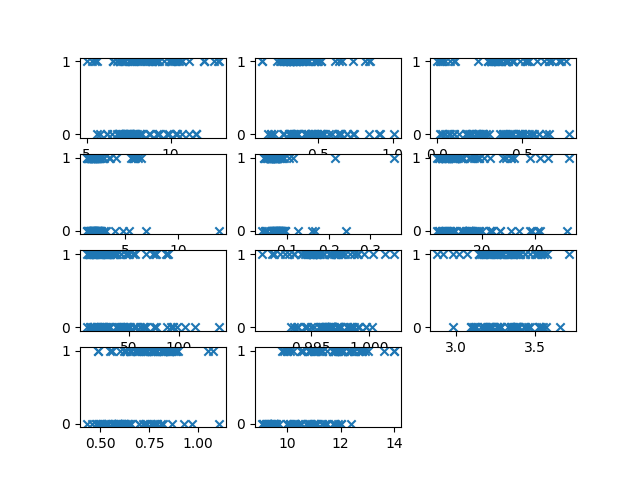
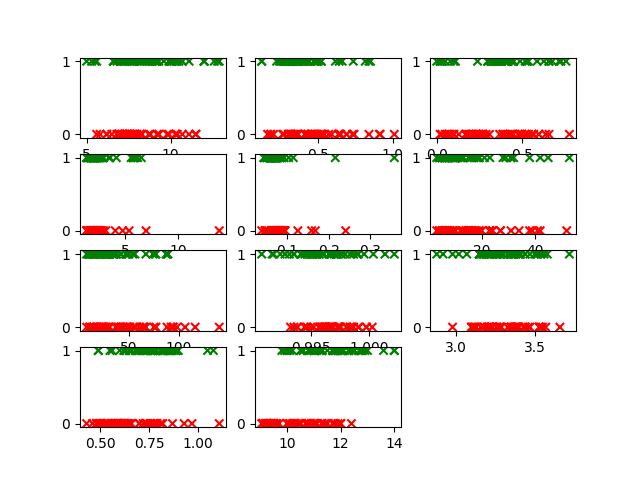
01FEB.01

diff --git a/LRF.py b/LRF.py
@@ -62,7 +62,7 @@ def uc_logistic_regression(data,result,uncertain):
         
     return models
 
-def ROC(model = None, predictions = None, data = None, results = None, uq = False):
+def ROC(model = None, predictions = None, data = None, results = None, uq = False, drop = True):
     
     s = []
     fpr = []
@@ -77,36 +77,73 @@ def ROC(model = None, predictions = None, data = None, results = None, uq = Fals
         d = 0
 
         for prob, result in zip(predictions,results):
-            if uq:
+            if uq and not drop:
                 if (prob[0] >= p) and (prob[1] >= p):
                     x = 1
                 elif (prob[0] < p) and (prob[1] < p):
                     x = 0
                 else:
-                    continue                      
-            else:
-                x = prob >= p
-                
-            if x:
-                if result:
-                    # true positive
-                    a += 1
-                else:
-                    # false positive
-                    b+= 1
-            else: 
-                if result:
-                    # false negative
-                    c += 1
-                else:
-                    # true negative
-                    d += 1
+                    x = 0.5
                     
-        try:
-            s.append(a/(a+c))
-            fpr.append(b/(b+d))
-        except: 
-            pass
+                if x == 0.5:
+                    if result:
+                        a += pba.I(0,1)
+                        b += pba.I(0,1)
+                    else:
+                        c += pba.I(0,1)
+                        d += pba.I(0,1)
+                elif x:
+                    if result:
+                        # true positive
+                        a += 1
+                    else:
+                        # false positive
+                        b+= 1
+                else: 
+                    if result:
+                        # false negative
+                        c += 1
+                    else:
+                        # true negative
+                        d += 1
+                
+                        
+            else:
+                if uq and drop:
+                    if (prob[0] >= p) and (prob[1] >= p):
+                        x = 1
+                    elif (prob[0] < p) and (prob[1] < p):
+                        x = 0
+                    else:
+                        continue                 
+                else:
+                    x = prob >= p
+                    
+                if x:
+                    if result:
+                        # true positive
+                        a += 1
+                    else:
+                        # false positive
+                        b+= 1
+                else: 
+                    if result:
+                        # false negative
+                        c += 1
+                    else:
+                        # true negative
+                        d += 1
+                    
+        if a == 0:
+            s.append(0)
+        else:
+            s.append(1/(1+(c/a)))
+        
+        if b == 0:
+            fpr.append(0)
+        else:
+            fpr.append(1/(1+(d/b)))
+        
     return s, fpr
    
 def UQ_ROC(models, data, results):
@@ -114,21 +151,21 @@ def UQ_ROC(models, data, results):
     s = []
     fpr = []
     
-    predictions_lb = []
-    predictions_ub = []
+    predictions = []
     
     for d in tqdm(data.index):
         l = [m.predict_proba(data.loc[d].to_numpy().reshape(1, -1))[:,1] for k,m in models.items()]
-        predictions_lb += [min(l)]
-        predictions_ub += [max(l)]
+        predictions.append((min(l),max(l)))
     
         
-    s_lb,fpr_lb = ROC(predictions = predictions_lb, data = data, results = results)
-    s_ub,fpr_ub = ROC(predictions = predictions_ub, data = data, results = results)
-    s_t,fpr_t = ROC(predictions = [(l,h) for l,h in zip(predictions_lb,predictions_ub)], data = data, results = results, uq = True)
-          
+    s_i,fpr_i = ROC(predictions = predictions, data = data, results = results, uq = True, drop = False)
+    s_t,fpr_t = ROC(predictions = predictions, data = data, results = results, uq = True, drop = True)
+    
+    s_i = [pba.I(i) for i in s_i]
+    fpr_i = [pba.I(i) for i in fpr_i]
+    
 
-    return s_lb, fpr_lb, s_ub, fpr_ub, s_t, fpr_t
+    return s_i, fpr_i, s_t, fpr_t
 
 
 def split_data(features, results, test_frac = 0.5, uq_frac = 0.05, seed=random.random()):

diff --git a/redwine.py b/redwine.py
@@ -88,41 +88,56 @@ with open('redwine-cm.out','w') as f:
 
 
 ## ROC CURVE
-# s,fpr = ROC(model = base, data = test_data, results = test_results)
-# s_lb, fpr_lb, s_ub, fpr_ub, s_t, fpr_t = UQ_ROC(models = uq_models, data = test_data, results = test_results)
 
-# plt.plot([0,1],[0,1],'k:',label = '$s = 1-t$')
-# plt.xlabel('$1-t$')
-# plt.ylabel('$s$')
-# plt.plot(fpr,s,'k', label = 'Dropped missing values')
-# plt.savefig('figs/redwine_ROC.png')
-# plt.savefig('../paper/figs/redwine_ROC.png')
+### ROC CURVE
+s,fpr = ROC(model = base, data = test_data, results = test_results)
+s_i, fpr_i, s_t, fpr_t = UQ_ROC(models = uq_models, data = test_data, results = test_results)
 
-# plt.plot(fpr_lb,s_lb,'r', label = 'Lower bound')
-# plt.plot(fpr_ub,s_ub,'b', label = 'Upper Bound')
-# plt.plot(fpr_t,s_t,'m', label = 'Dropped Values')
-# plt.legend()
-# # print(len(fpr))
+plt.plot([0,1],[0,1],'k:',label = '$s = 1-t$')
+plt.plot([0,0,1],[0,1,1],'r:',label = '$s = 1-t$')
+plt.xlabel('$1-t$')
+plt.ylabel('$s$')
+plt.step(fpr,s,'k', label = 'Base')
+plt.savefig('figs/ex1_ROC.png')
+plt.savefig('../paper/figs/ex1_ROC.png')
+
+
+steps = 1001
+X = np.linspace(0,1,steps)
+Ymin = steps*[2]
+Ymax = steps*[-1]
+
+for i, x in enumerate(X):
+    for k,j in zip(s_i,fpr_i):
+        if j.straddles(x,endpoints = True):
+            Ymin[i] = min((Ymin[i],k.Left))
+            Ymax[i] = max((Ymax[i],k.Right))
+            
+plt.step([x for i,x in enumerate(X) if Ymax[i] != -1],[y for i,y in enumerate(Ymax) if Ymax[i] != -1],'r',label = 'Upper Bound')
+plt.step([x for i,x in enumerate(X) if Ymin[i] != 2],[y for i,y in enumerate(Ymin) if Ymin[i] != 2],'b',label = 'Lower Bound')
+
+plt.step(fpr_t,s_t,'m', label = 'Dropped Values')
+plt.legend()
 # # tikzplotlib.save('../paper/figs/redwine_UQ_ROC.png')
-# plt.savefig('figs/redwine_UQ_ROC.png')
-# plt.savefig('../paper/figs/redwine_UQ_ROC.png')
+plt.savefig('figs/redwine_UQ_ROC.png')
+plt.savefig('../paper/figs/redwine_UQ_ROC.png')
 
 
-# with open('redwine-auc.out','w') as f:
-#     print('NO UNCERTAINTY: %.4f' %auc(s,fpr), file = f)
-#     print('LOWER BOUND: %.4f' %auc(s_lb,fpr_lb), file = f)
-#     print('UPPER BOUND: %.4f' %auc(s_ub,fpr_ub), file = f)
-#     print('THROW: %.4f' %auc(s_t,fpr_t), file = f)
+with open('redwine-auc.out','w') as f:
+    print('NO UNCERTAINTY: %.4f' %auc(s,fpr), file = f)
+    print('LOWER BOUND: %.4f' %auc([x for i,x in enumerate(X) if Ymin[i] != 2],[y for i,y in enumerate(Ymin) if Ymin[i] != 2]), file = f)
+    print('UPPER BOUND: %.4f' %auc([x for i,x in enumerate(X) if Ymax[i] != 2],[y for i,y in enumerate(Ymax) if Ymax[i] != 2]), file = f)
+    print('THROW: %.4f' %auc(s_t,fpr_t), file = f)
     
-# plt.clf()
+plt.clf()
 
 ## PLOTS
 
 l = len(train_data.columns)
-# colors = ['g' if d else 'r' for c,d in train_results.iteritems()]
+colors = ['g' if d else 'r' for c,d in train_results.iteritems()]
 for i,c in enumerate(train_data.columns):
     plt.subplot(4,3,i+1)
-    plt.scatter(train_data[c],train_results,marker = 'x')
+    plt.scatter(train_data[c],train_results,marker = 'x',c=colors)
     # plt.scatter(uq_data[j],uq_data[k],c='k')
         
 plt.savefig('figs/redwine.png')

diff --git a/ex1UC.py b/ex1UC.py
@@ -20,7 +20,7 @@ def generate_results(data):
 
 
 # set seed to ensure same data
-# np.random.seed(10)
+np.random.seed(10)
 
 # Params
 many = 25
@@ -29,7 +29,7 @@ few = 5
 some = 100
 
 # Generate data
-data = pd.DataFrame(30*np.random.rand(many,dim))
+data = pd.DataFrame(40*np.random.rand(many,dim))
 results = generate_results(data)
 
 # Generate uncertain points
@@ -146,30 +146,43 @@ with open('ex1-cm.out','w') as f:
 
 ### ROC CURVE
 s,fpr = ROC(model = base, data = test_data, results = test_results)
-s_lb, fpr_lb, s_ub, fpr_ub, s_t, fpr_t = UQ_ROC(models = uq_models, data = test_data, results = test_results)
+s_i, fpr_i, s_t, fpr_t = UQ_ROC(models = uq_models, data = test_data, results = test_results)
 
 plt.plot([0,1],[0,1],'k:',label = '$s = 1-t$')
 plt.plot([0,0,1],[0,1,1],'r:',label = '$s = 1-t$')
 plt.xlabel('$1-t$')
 plt.ylabel('$s$')
-plt.plot(fpr,s,'k', label = 'Dropped missing values')
+plt.step(fpr,s,'k', label = 'Base')
 plt.savefig('figs/ex1_ROC.png')
 plt.savefig('../paper/figs/ex1_ROC.png')
 
-# plt.step(fpr_lb,s_lb,'r', label = 'Lower bound')
-# plt.step(fpr_ub,s_ub,'b', label = 'Upper Bound')
-# plt.step(fpr_t,s_t,'m', label = 'Dropped Values')
-# plt.legend()
-# # print(len(fpr))
-# # tikzplotlib.save('../paper/figs/ex1_UQ_ROC.png')
-# plt.savefig('figs/ex1_UQ_ROC.png')
-# plt.savefig('../paper/figs/ex1_UQ_ROC.png')
 
+steps = 1001
+X = np.linspace(0,1,steps)
+Ymin = steps*[2]
+Ymax = steps*[-1]
+
+for i, x in enumerate(X):
+    for k,j in zip(s_i,fpr_i):
+        plt.plot([j.Left,j.Left,j.Right,j.Right,j.Left],[k.Left,k.Right,k.Right,k.Left,k.Left],c= 'grey')
+        if j.straddles(x,endpoints = True):
+            Ymin[i] = min((Ymin[i],k.Left))
+            Ymax[i] = max((Ymax[i],k.Right))
+            
+plt.step([x for i,x in enumerate(X) if Ymax[i] != -1],[y for i,y in enumerate(Ymax) if Ymax[i] != -1],'r',label = 'Upper Bound')
+plt.step([x for i,x in enumerate(X) if Ymin[i] != 2],[y for i,y in enumerate(Ymin) if Ymin[i] != 2],'b',label = 'Lower Bound')
+
+plt.step(fpr_t,s_t,'m', label = 'Dropped Values')
+plt.legend()
+
+# tikzplotlib.save('../paper/figs/ex1_UQ_ROC.png')
+plt.savefig('figs/ex1_UQ_ROC.png')
+plt.savefig('../paper/figs/ex1_UQ_ROC.png')
+
+# plt.clf()
 
 with open('ex1-auc.out','w') as f:
     print('NO UNCERTAINTY: %.4f' %auc(s,fpr), file = f)
-    print('LOWER BOUND: %.4f' %auc(s_lb,fpr_lb), file = f)
-    print('UPPER BOUND: %.4f' %auc(s_ub,fpr_ub), file = f)
+    print('LOWER BOUND: %.4f' %auc([x for i,x in enumerate(X) if Ymin[i] != 2],[y for i,y in enumerate(Ymin) if Ymin[i] != 2]), file = f)
+    print('UPPER BOUND: %.4f' %auc([x for i,x in enumerate(X) if Ymax[i] != 2],[y for i,y in enumerate(Ymax) if Ymax[i] != 2]), file = f)
     print('THROW: %.4f' %auc(s_t,fpr_t), file = f)
-    
-# plt.clf()
